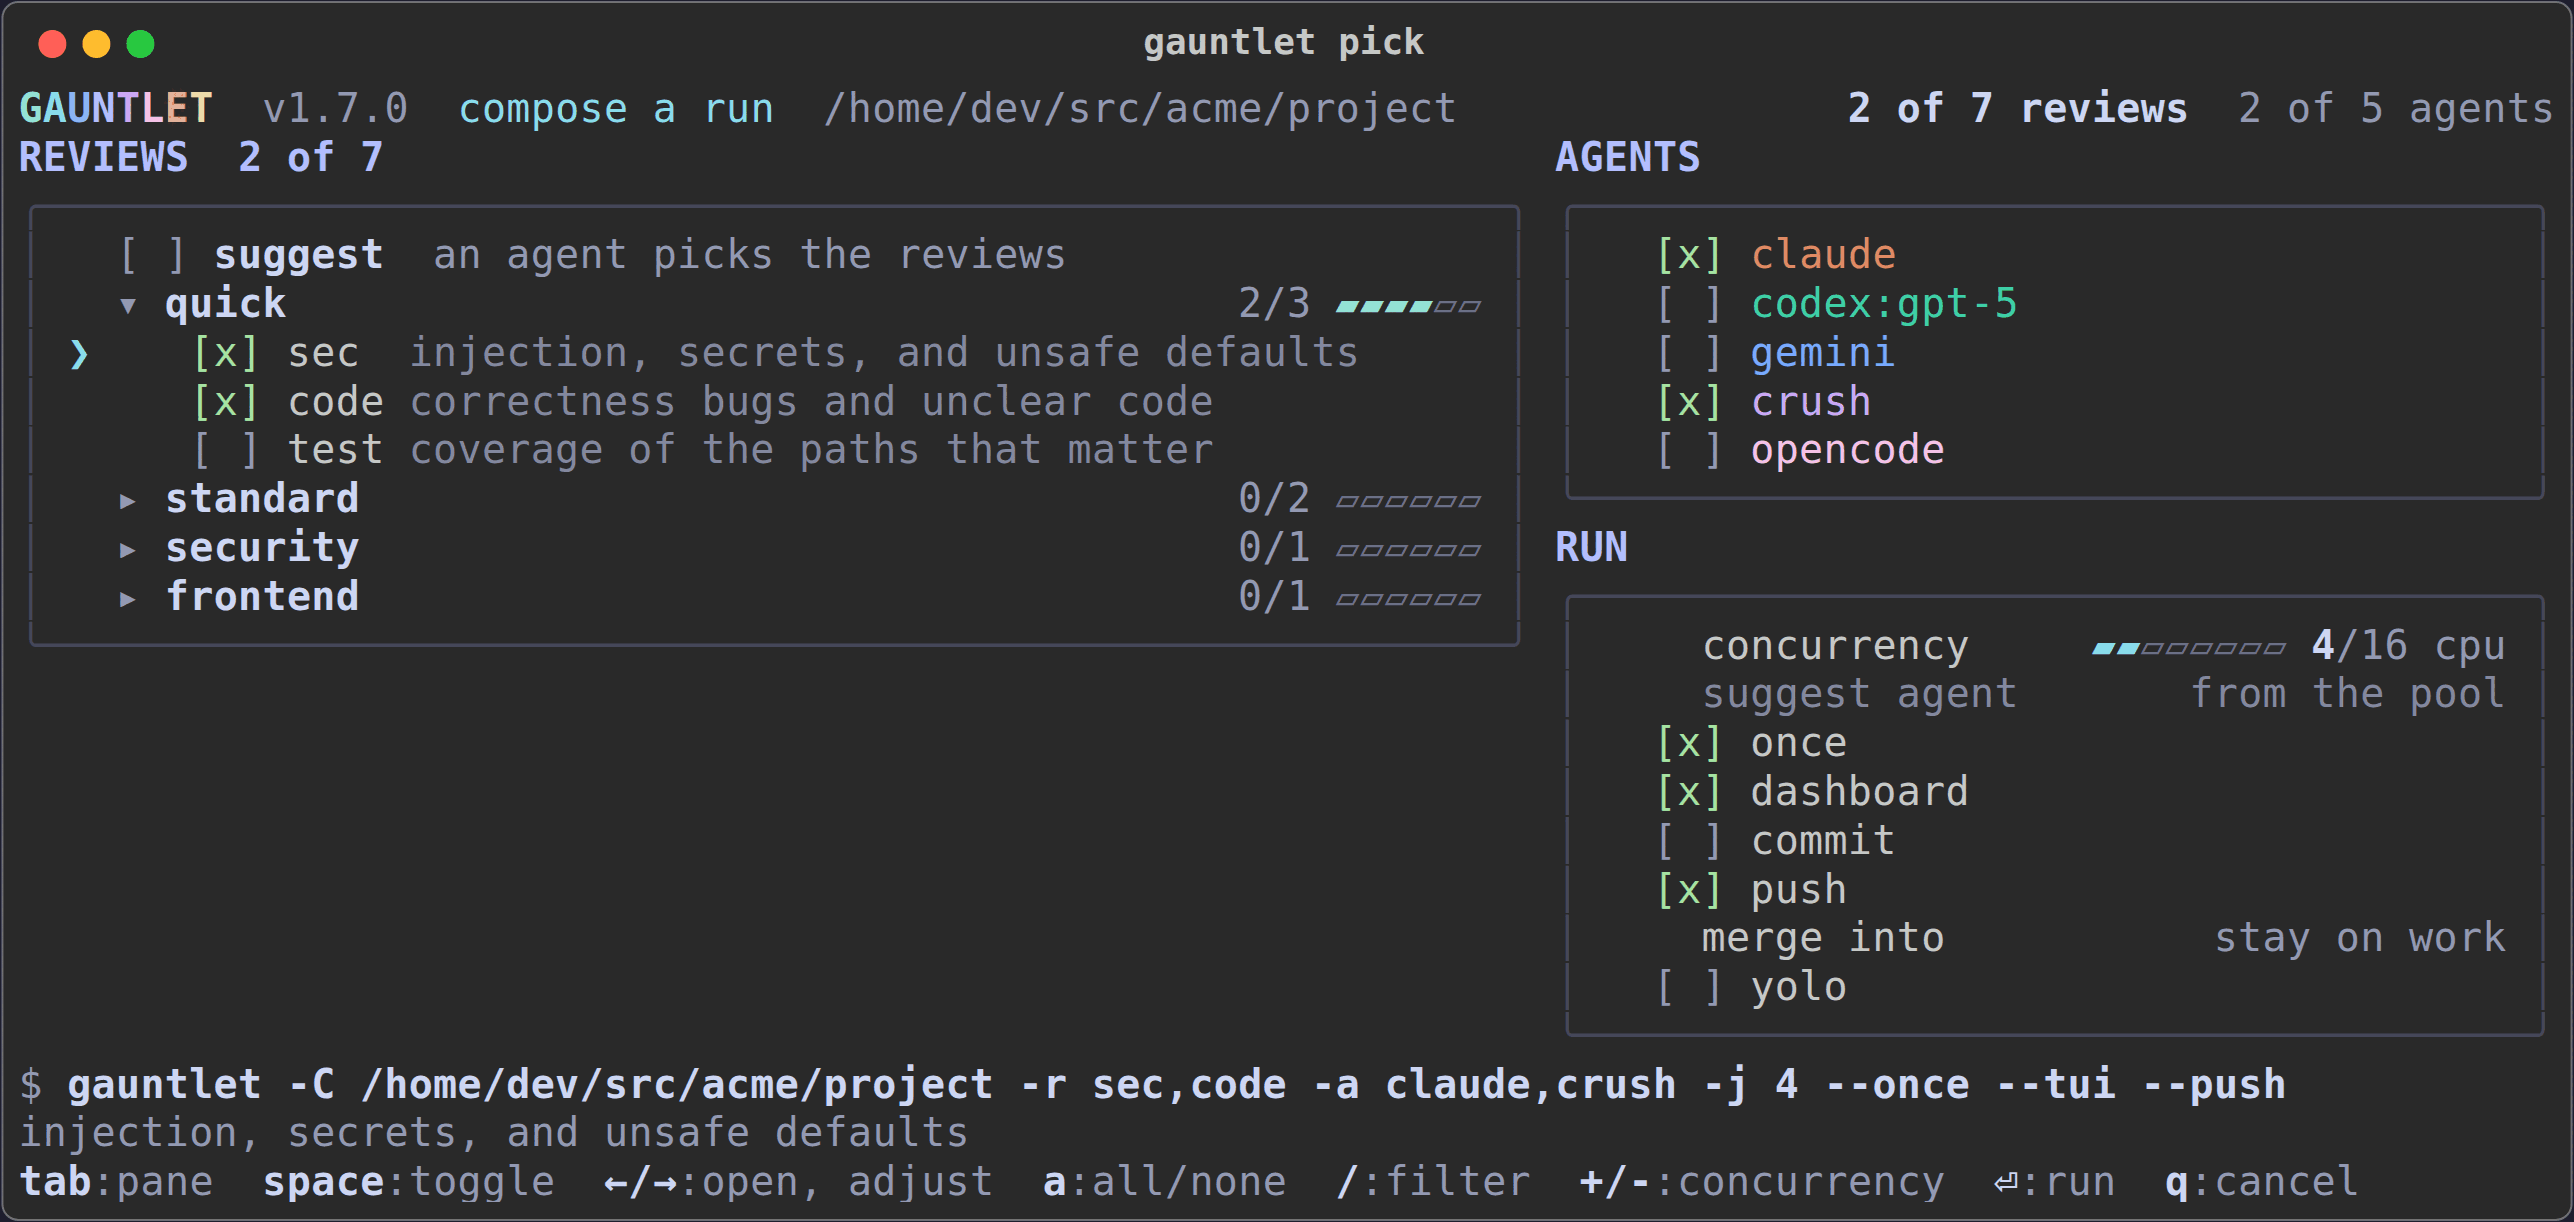
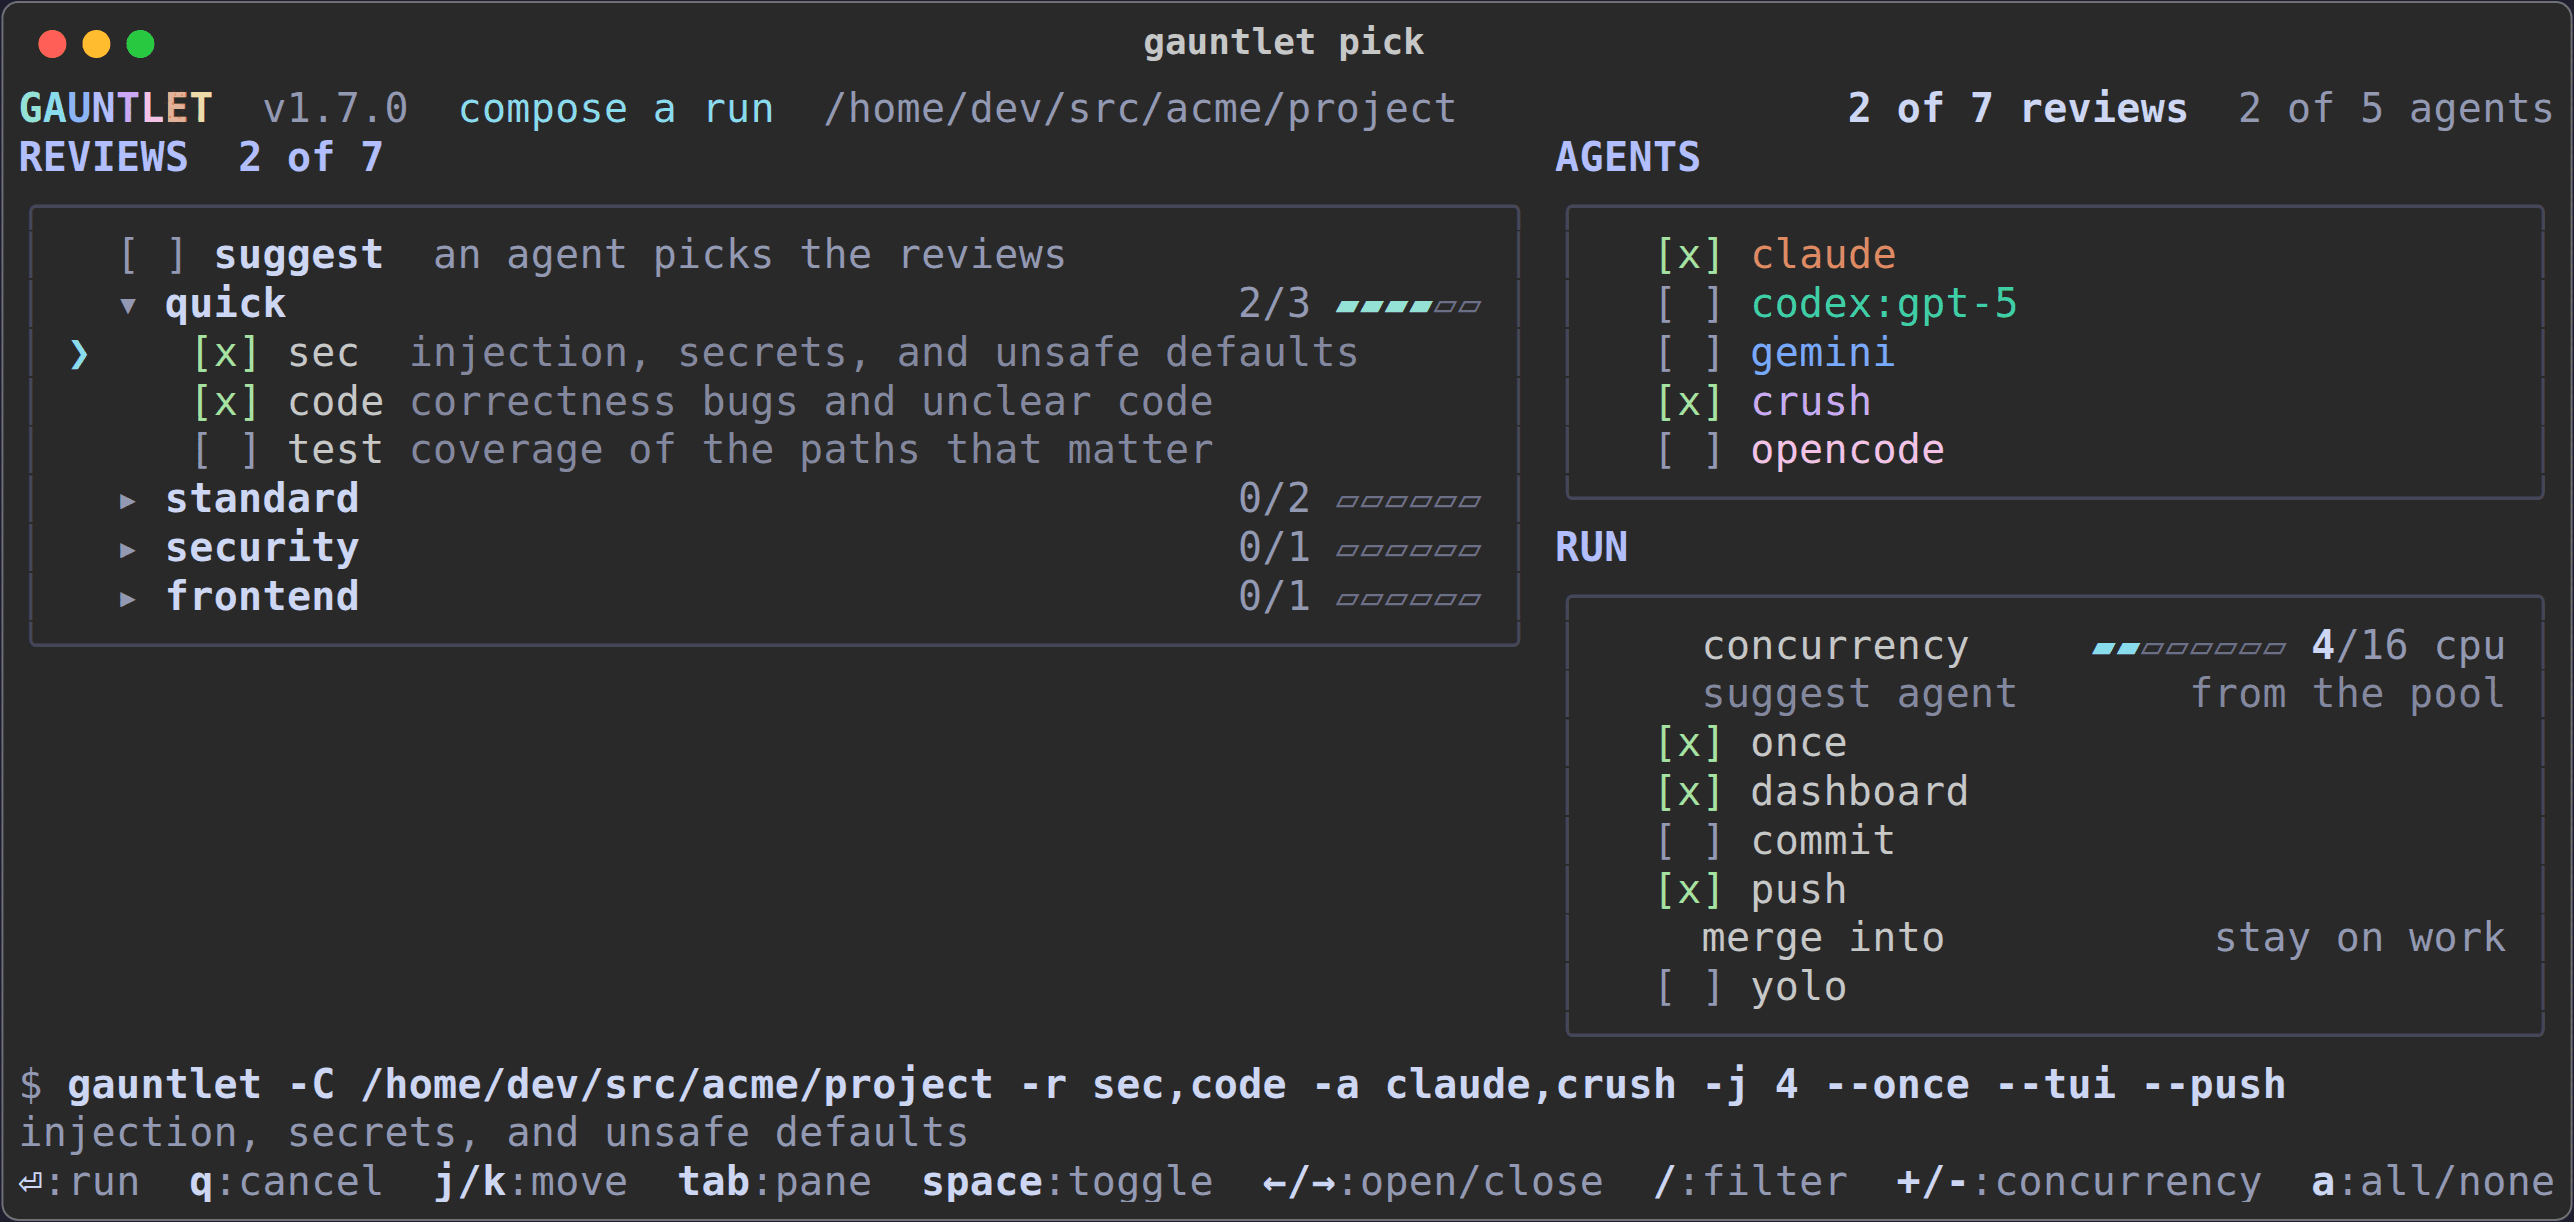
fix(ui): keep critical keys visible when terminal width clips the footers

Changed region(s): [[0.0, 0.9329, 0.9946, 0.9951]]

diff --git a/internal/ui/pick.go b/internal/ui/pick.go
@@ -745,18 +745,26 @@ func (p *picker) renderStatus() string {
 	return clip(styleDim.Render(p.hint()), p.w)
 }
 
+// renderKeys names the keys, most important first, and drops from the right
+// end when the terminal is narrow: a keyboard user who cannot find how to
+// move between rows or leave is stranded, so those come before niceties like
+// bulk selection. What fits is what is shown, never clipped mid-name.
 func (p *picker) renderKeys() string {
 	keys := []struct{ k, v string }{
-		{"tab", "pane"}, {"space", "toggle"}, {"←/→", "open, adjust"},
-		{"a", "all/none"}, {"/", "filter"}, {"+/-", "concurrency"},
-		{"⏎", "run"}, {"q", "cancel"},
+		{"⏎", "run"}, {"q", "cancel"}, {"j/k", "move"},
+		{"tab", "pane"}, {"space", "toggle"}, {"←/→", "open/close"},
+		{"/", "filter"}, {"+/-", "concurrency"}, {"a", "all/none"},
 	}
 	var b strings.Builder
-	for i, k := range keys {
-		if i > 0 {
+	for _, k := range keys {
+		seg := styleValue.Render(k.k) + styleDim.Render(":"+k.v)
+		if w := lipgloss.Width(seg); b.Len() > 0 && lipgloss.Width(b.String())+2+w > p.w {
+			break
+		}
+		if b.Len() > 0 {
 			b.WriteString("  ")
 		}
-		b.WriteString(styleValue.Render(k.k) + styleDim.Render(":"+k.v))
+		b.WriteString(seg)
 	}
 	return clip(b.String(), p.w)
 }

diff --git a/internal/ui/pick_test.go b/internal/ui/pick_test.go
@@ -364,3 +364,29 @@ func TestPickEmptyAgentsPaneKeepsFocusVisible(t *testing.T) {
 		}
 	}
 }
+
+// A narrow terminal clips the key list from its right end, so the keys that
+// strand a keyboard user who cannot find them must come first: how to run,
+// leave, and move between rows are visible even at the launcher's own
+// minimum size, and row movement is documented wherever the panels are.
+func TestPickFooterKeepsCriticalKeysVisible(t *testing.T) {
+	for _, w := range []int{104, 80, 50} {
+		p := demoPicker()
+		p.w, p.h, p.ready = w, 30, true
+		footer := lastLine(p.View())
+		if !strings.Contains(footer, ":run") || !strings.Contains(footer, ":cancel") {
+			t.Fatalf("at %d columns the footer lost launch or quit:\n%s", w, footer)
+		}
+		if !strings.Contains(footer, ":move") {
+			t.Fatalf("at %d columns the footer lost row movement:\n%s", w, footer)
+		}
+	}
+	p := demoPicker()
+	p.w, p.h, p.ready = 104, 30, true
+	footer := lastLine(p.View())
+	for _, want := range []string{":pane", ":toggle", ":open/close", ":filter"} {
+		if !strings.Contains(footer, want) {
+			t.Fatalf("a wide terminal should document more than the essentials (%q missing):\n%s", want, footer)
+		}
+	}
+}

diff --git a/internal/ui/ui_test.go b/internal/ui/ui_test.go
@@ -499,6 +499,32 @@ func wcagLuminance(t *testing.T, hex string) float64 {
 	return 0.2126*lin[0] + 0.7152*lin[1] + 0.0722*lin[2]
 }
 
+// The footer clips from its right end once the counters are wide, so the
+// keys that keep a reader oriented must outlast the ones only the data
+// hungry need: quit, help, and pause survive; filter is the first to go.
+func TestFooterKeepsHelpAndPauseWhileStatsGrow(t *testing.T) {
+	m := newModel(demoConfig())
+	m.w, m.h, m.ready = 61, 30, true
+	for _, ev := range demoEvents() {
+		m.apply(ev)
+	}
+	m.haveLines = true
+	m.ins, m.del = 1234567, 234567 // every right-side segment at full width
+	m.tokens, m.thinking = 98765432, 43210987
+	m.liveRate = 8888.8
+	footer := lastLine(stripANSI(m.View()))
+	for _, want := range []string{"q:quit", "?:help", "space:pause", "j/k:scroll"} {
+		if !strings.Contains(footer, want) {
+			t.Fatalf("a wide-stats footer lost %q:\n%s", want, footer)
+		}
+	}
+}
+
+func lastLine(s string) string {
+	lines := strings.Split(s, "\n")
+	return lines[len(lines)-1]
+}
+
 func stripANSI(s string) string {
 	var b strings.Builder
 	inEsc := false

diff --git a/internal/ui/ui.go b/internal/ui/ui.go
@@ -888,9 +888,13 @@ func lineStyle(k normalize.Kind) lipgloss.Style {
 }
 
 func (m *model) renderFooter() string {
+	// Order matters under width pressure: the footer clips from its right
+	// end once the token counters grow, so the keys that keep a reader
+	// oriented (quit, help, pause) come before the ones only the data
+	// hungry need. The full pause semantics live in help; here one word.
 	keys := []struct{ k, d string }{
-		{"q", "quit"}, {"s", "finish"}, {"space", "pause feed"}, {"j/k", "scroll"},
-		{"f", "filter"}, {"?", "help"},
+		{"q", "quit"}, {"?", "help"}, {"space", "pause"},
+		{"j/k", "scroll"}, {"s", "finish"}, {"f", "filter"},
 	}
 	var b strings.Builder
 	for _, k := range keys {

diff --git a/cmd/gauntlet/doctor.go b/cmd/gauntlet/doctor.go
@@ -53,7 +53,8 @@ func doctor(out io.Writer, pal palette, overrides map[string]string, width int) 
 	// are as real as the compiled-in ones and belong in the inventory.
 	agents := agent.AllNames()
 
-	fmt.Fprintln(out, pal.bold("Agent CLIs")+pal.dim("  (at least one required)"))
+	fmt.Fprintln(out, pal.bold("Agent CLIs")+
+		pal.dim("  (✓ installed, ✗ missing; at least one required)"))
 	installed, usable := 0, 0
 	for _, a := range agents {
 		ok := found[a] != ""
